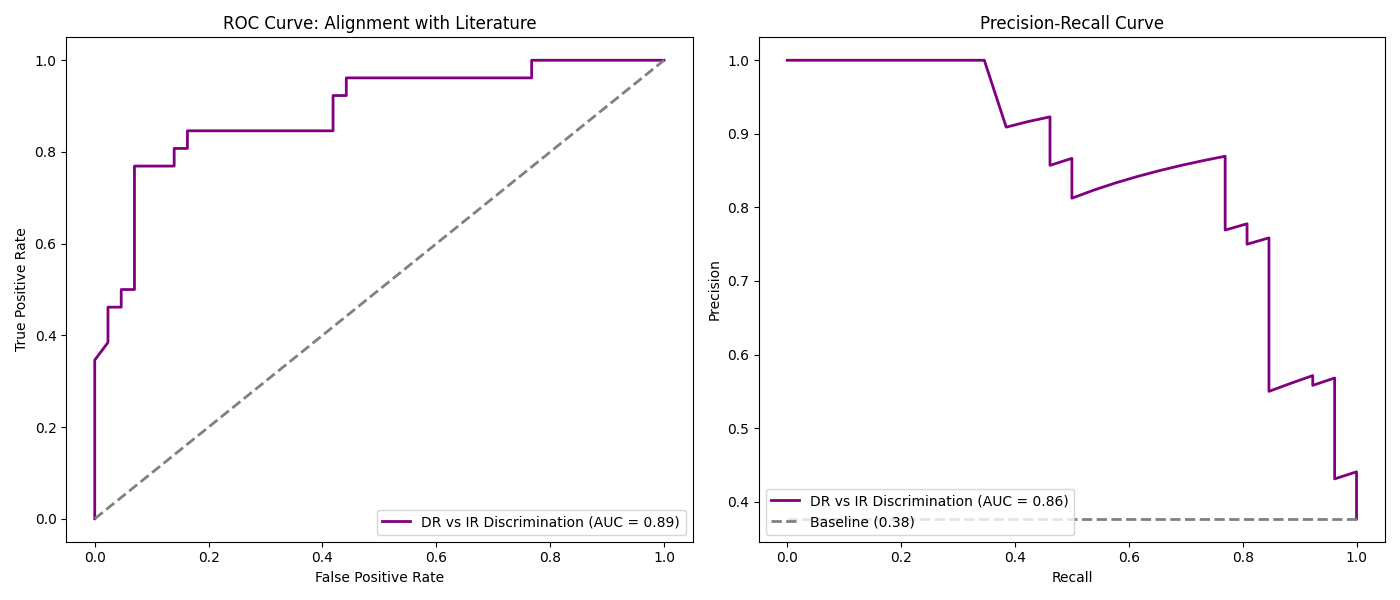
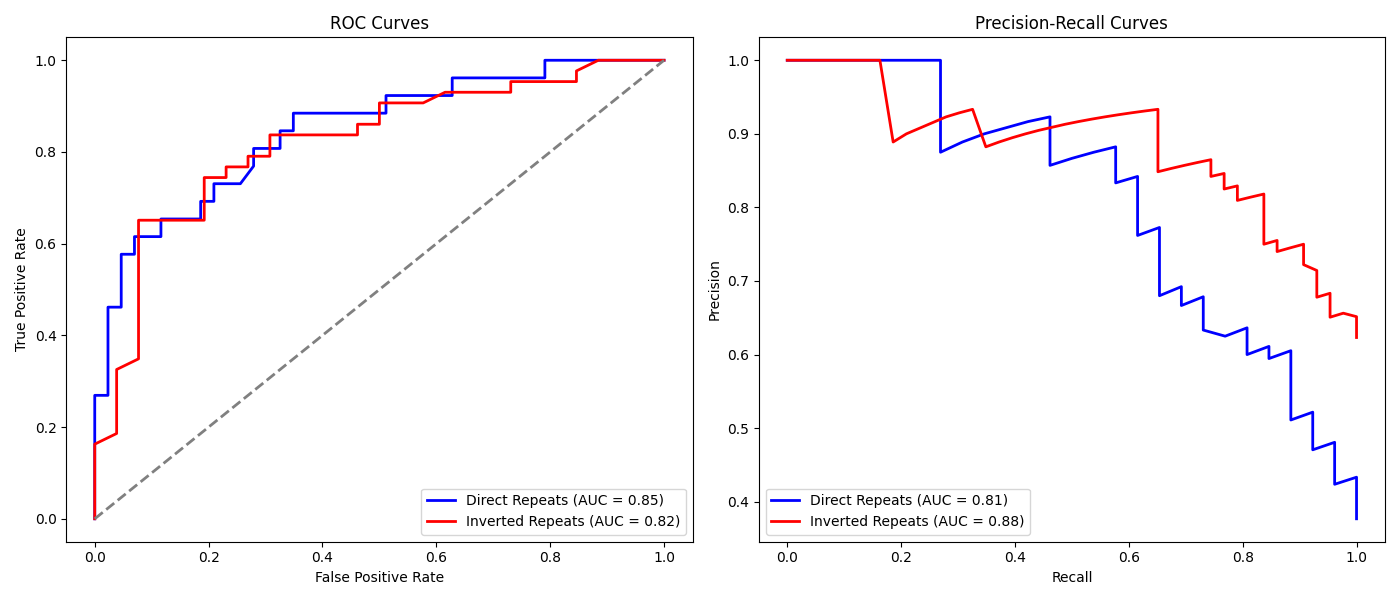
redo roc-pr with dr-ir explicitly considered

diff --git a/MAYMOTIF-Reporting.py b/MAYMOTIF-Reporting.py
@@ -538,38 +538,44 @@ pivot_df = final_report_df.pivot_table(
 # Clean up pattern strings (just in case there are trailing spaces)
 pivot_df['Prospective Pattern'] = pivot_df['Prospective Pattern'].astype(str).str.strip().str.upper()
 
-# 1. Create a single combined score: (Direct Confidence - Reverse Confidence)
-# Positive values strongly predict DR. Negative values strongly predict IR.
-y_score_combined = pivot_df['Direct'].fillna(0) - pivot_df['Reverse'].fillna(0)
+# 1. Define Ground Truths (Binary 1 or 0)
+y_true_dr = np.where(pivot_df['Prospective Pattern'] == 'DR', 1, 0)
+y_true_ir = np.where(pivot_df['Prospective Pattern'] == 'IR', 1, 0)
 
-# 2. Ground Truth: 1 if Literature says DR, 0 if Literature says IR
-y_true_combined = np.where(pivot_df['Prospective Pattern'] == 'DR', 1, 0)
+# 2. Define Scores (Inverted P-values, higher is more confident)
+y_score_dr = pivot_df['Direct'].fillna(0)
+y_score_ir = pivot_df['Reverse'].fillna(0)
 
-# 3. Calculate metrics
-fpr, tpr, _ = roc_curve(y_true_combined, y_score_combined)
-roc_auc = auc(fpr, tpr)
-prec, recall, _ = precision_recall_curve(y_true_combined, y_score_combined)
-pr_auc = average_precision_score(y_true_combined, y_score_combined)
+# 3. Calculate metrics for Direct Repeats
+fpr_dr, tpr_dr, _ = roc_curve(y_true_dr, y_score_dr)
+roc_auc_dr = auc(fpr_dr, tpr_dr)
+prec_dr, recall_dr, _ = precision_recall_curve(y_true_dr, y_score_dr)
+pr_auc_dr = average_precision_score(y_true_dr, y_score_dr)
+
+# 4. Calculate metrics for Inverted Repeats
+fpr_ir, tpr_ir, _ = roc_curve(y_true_ir, y_score_ir)
+roc_auc_ir = auc(fpr_ir, tpr_ir)
+prec_ir, recall_ir, _ = precision_recall_curve(y_true_ir, y_score_ir)
+pr_auc_ir = average_precision_score(y_true_ir, y_score_ir)
 
 # Generate Plots
 fig, (ax1, ax2) = plt.subplots(1, 2, figsize=(14, 6))
 
 # ROC Curves
-ax1.plot(fpr, tpr, color='purple', lw=2, label=f'DR vs IR Discrimination (AUC = {roc_auc:.2f})')
+ax1.plot(fpr_dr, tpr_dr, color='blue', lw=2, label=f'Direct Repeats (AUC = {roc_auc_dr:.2f})')
+ax1.plot(fpr_ir, tpr_ir, color='red', lw=2, label=f'Inverted Repeats (AUC = {roc_auc_ir:.2f})')
 ax1.plot([0, 1], [0, 1], color='gray', lw=2, linestyle='--')
 ax1.set_xlabel('False Positive Rate')
 ax1.set_ylabel('True Positive Rate')
-ax1.set_title('ROC Curve: Alignment with Literature')
+ax1.set_title('ROC Curves')
 ax1.legend(loc='lower right')
 
 # PR Curves
-ax2.plot(recall, prec, color='purple', lw=2, label=f'DR vs IR Discrimination (AUC = {pr_auc:.2f})')
-# The PR baseline is the ratio of positive (DR) instances in your dataset
-baseline = sum(y_true_combined) / len(y_true_combined)
-ax2.plot([0, 1], [baseline, baseline], color='gray', lw=2, linestyle='--', label=f'Baseline ({baseline:.2f})')
+ax2.plot(recall_dr, prec_dr, color='blue', lw=2, label=f'Direct Repeats (AUC = {pr_auc_dr:.2f})')
+ax2.plot(recall_ir, prec_ir, color='red', lw=2, label=f'Inverted Repeats (AUC = {pr_auc_ir:.2f})')
 ax2.set_xlabel('Recall')
 ax2.set_ylabel('Precision')
-ax2.set_title('Precision-Recall Curve')
+ax2.set_title('Precision-Recall Curves')
 ax2.legend(loc='lower left')
 
 plt.tight_layout()
